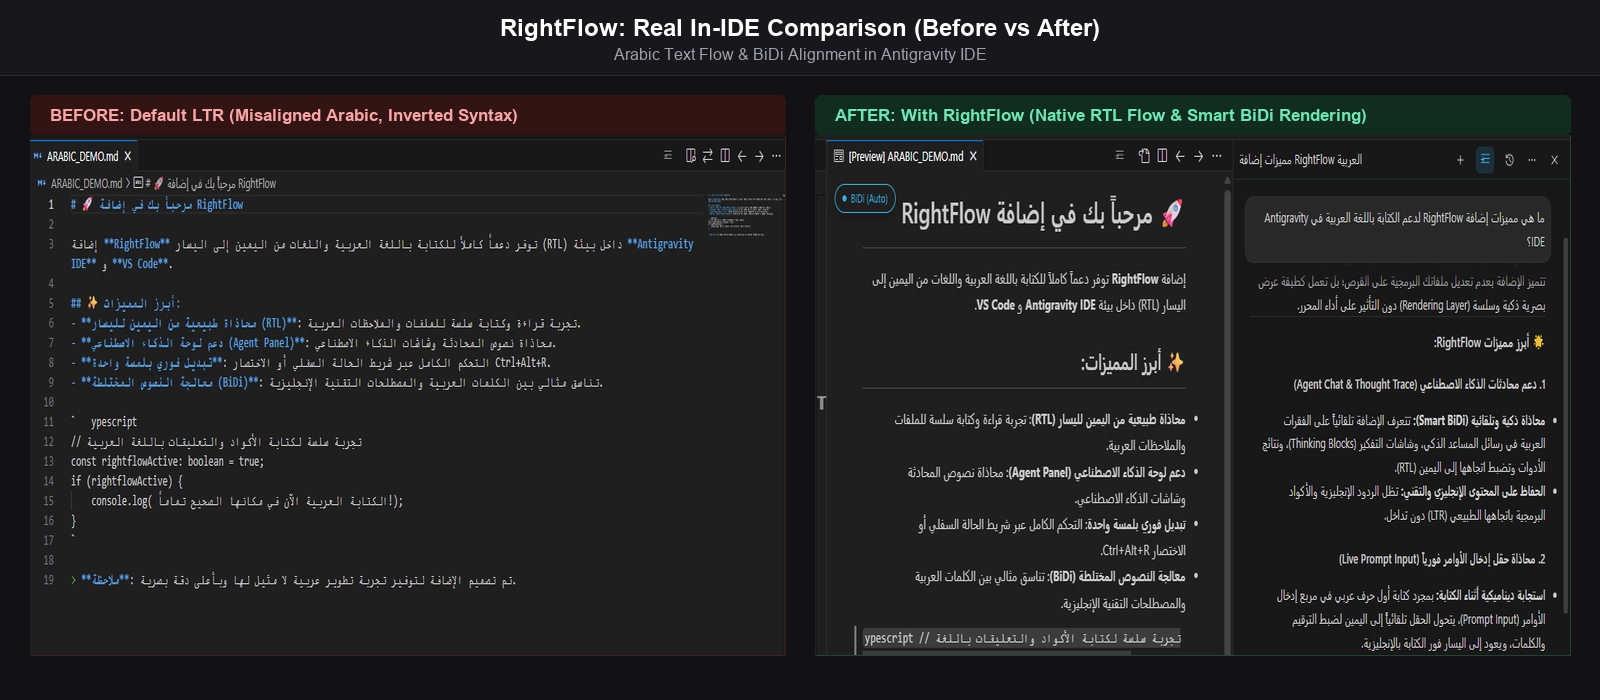
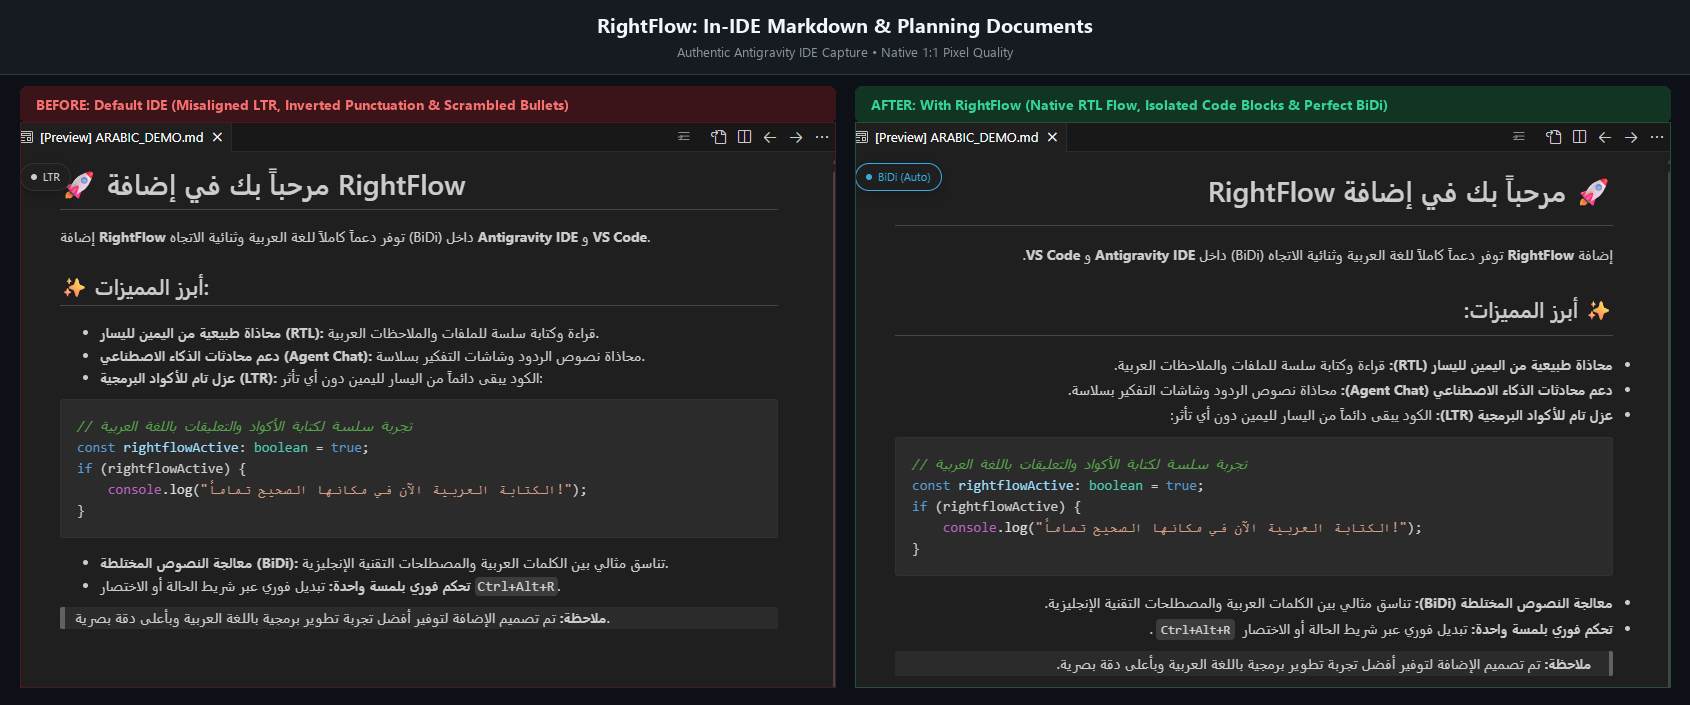
docs: update preview and before-after with 1:1 pixel-perfect authentic captures

diff --git a/ARABIC_DEMO.md b/ARABIC_DEMO.md
@@ -1,0 +1,21 @@
+# 🚀 مرحباً بك في إضافة RightFlow
+
+إضافة **RightFlow** توفر دعماً كاملاً للغة العربية وثنائية الاتجاه (BiDi) داخل **Antigravity IDE** و **VS Code**.
+
+## ✨ أبرز المميزات:
+- **محاذاة طبيعية من اليمين لليسار (RTL):** قراءة وكتابة سلسة للملفات والملاحظات العربية.
+- **دعم محادثات الذكاء الاصطناعي (Agent Chat):** محاذاة نصوص الردود وشاشات التفكير بسلاسة.
+- **عزل تام للأكواد البرمجية (LTR):** الكود يبقى دائماً من اليسار لليمين دون أي تأثر:
+
+```typescript
+// تجربة سلسة لكتابة الأكواد والتعليقات باللغة العربية
+const rightflowActive: boolean = true;
+if (rightflowActive) {
+    console.log("الكتابة العربية الآن في مكانها الصحيح تماماً!");
+}
+```
+
+- **معالجة النصوص المختلطة (BiDi):** تناسق مثالي بين الكلمات العربية والمصطلحات التقنية الإنجليزية.
+- **تحكم فوري بلمسة واحدة:** تبديل فوري عبر شريط الحالة أو الاختصار `Ctrl+Alt+R`.
+
+> **ملاحظة:** تم تصميم الإضافة لتوفير أفضل تجربة تطوير برمجية باللغة العربية وبأعلى دقة بصرية.

diff --git a/README.md b/README.md
@@ -22,7 +22,7 @@
 ---
 
 <div align="center">
-  <img src="https://raw.githubusercontent.com/isl2m/rightflow/main/media/preview.jpg" alt="RightFlow Demo Showcase" width="100%" style="border-radius: 8px; box-shadow: 0 4px 20px rgba(0,0,0,0.3);" />
+  <img src="https://raw.githubusercontent.com/isl2m/rightflow/main/media/preview.png" alt="RightFlow Demo Showcase" width="100%" style="border-radius: 8px; box-shadow: 0 4px 20px rgba(0,0,0,0.3);" />
 </div>
 
 ---
